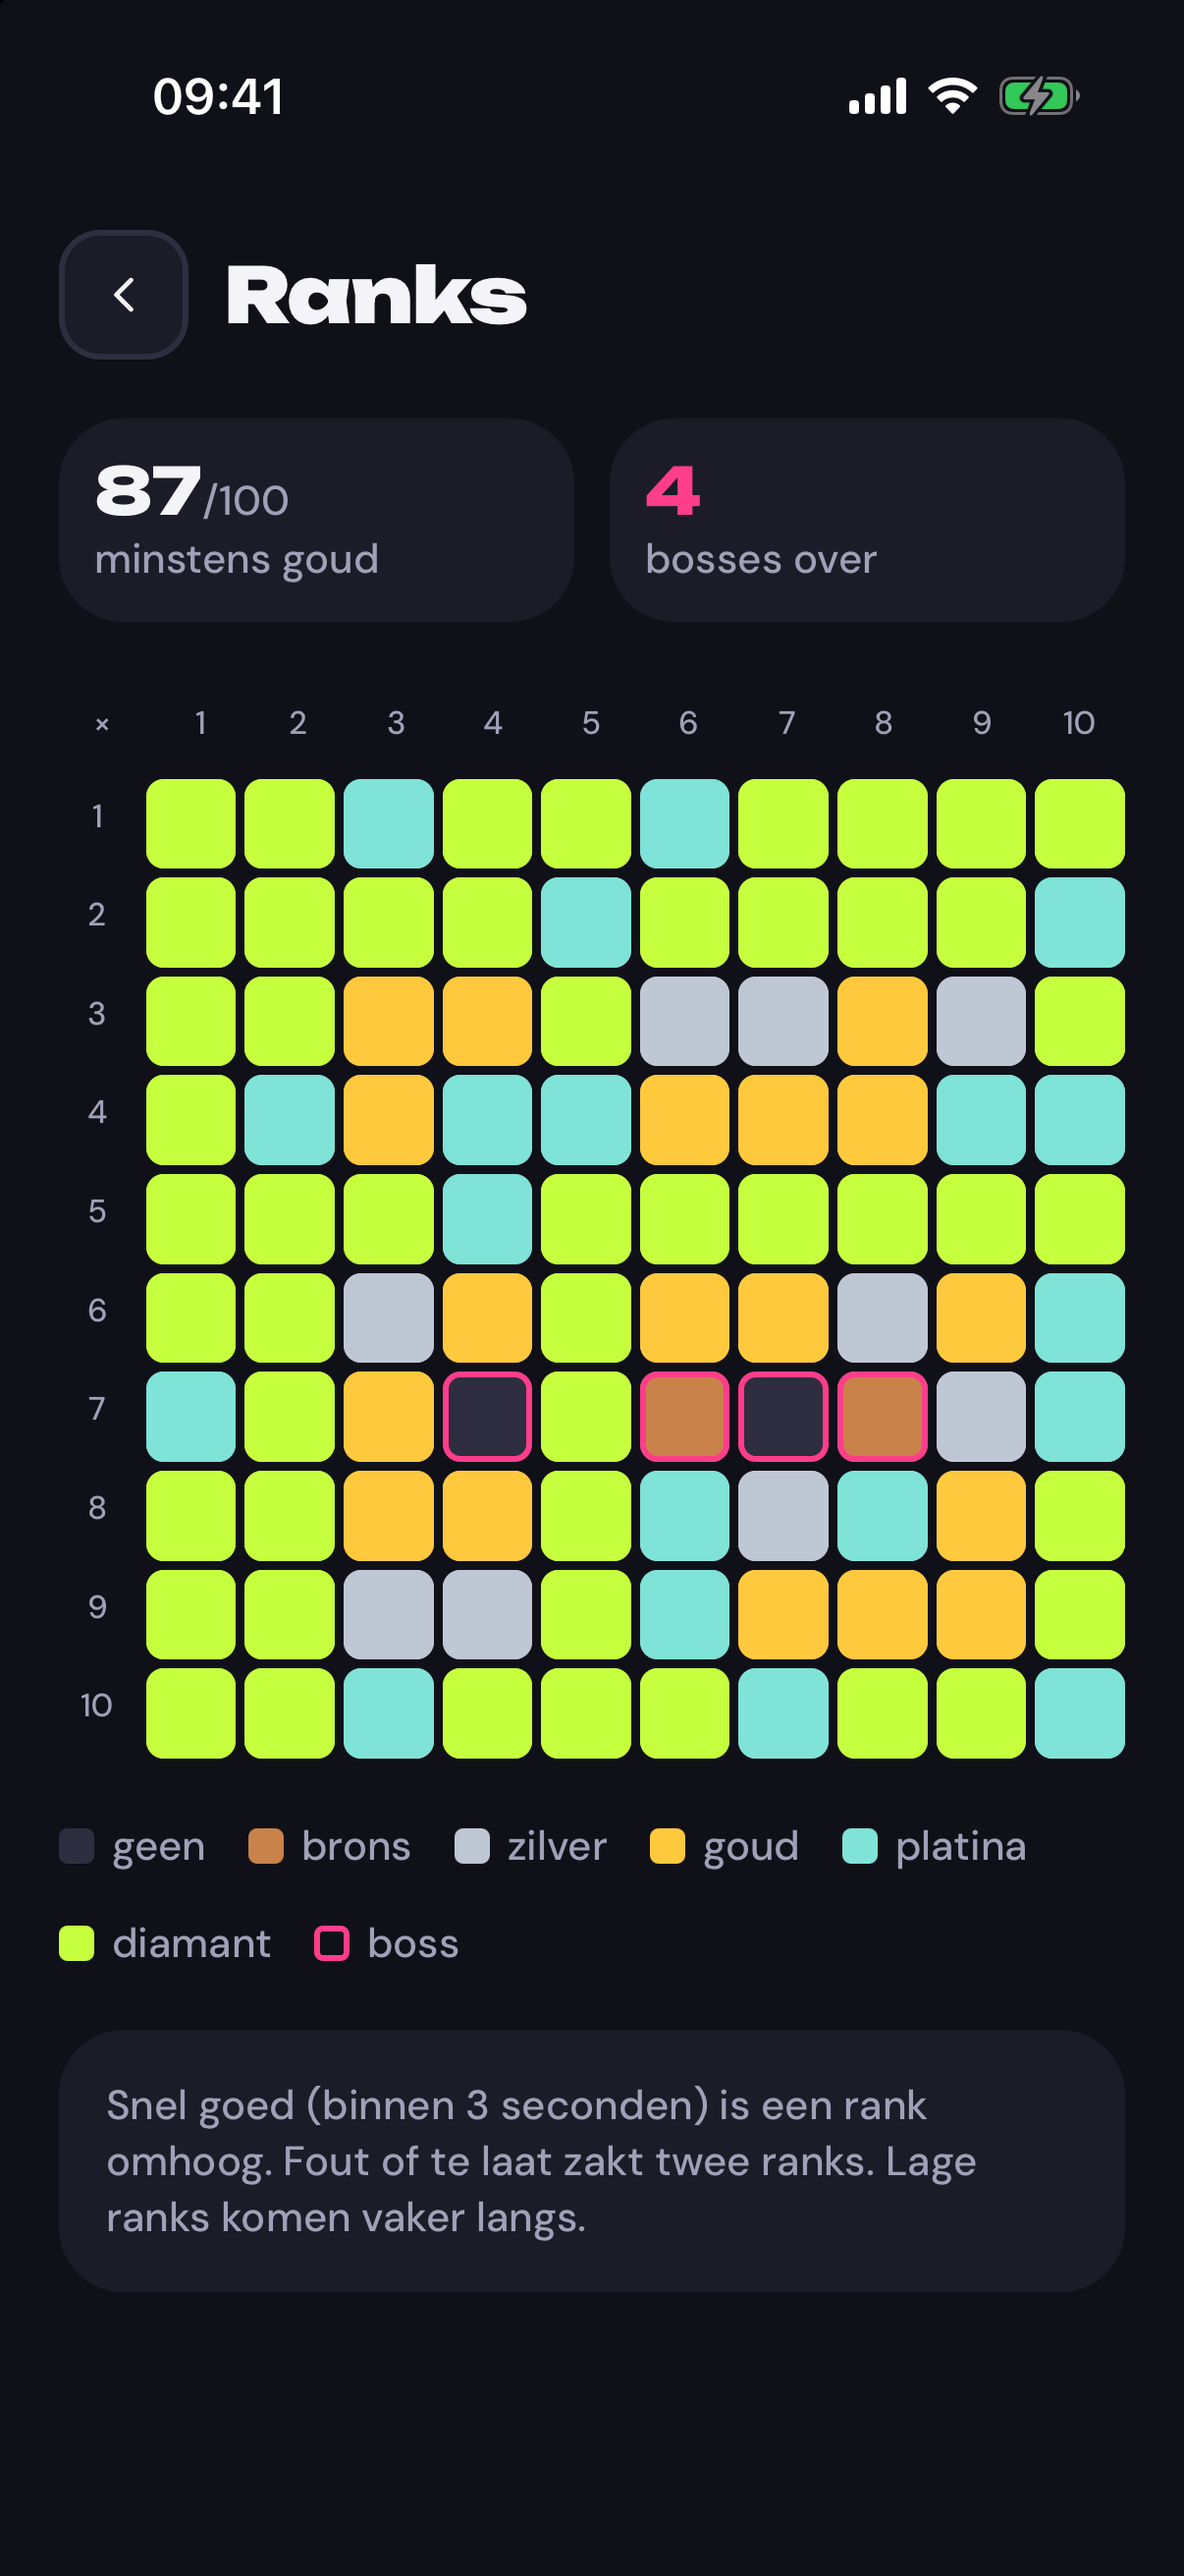
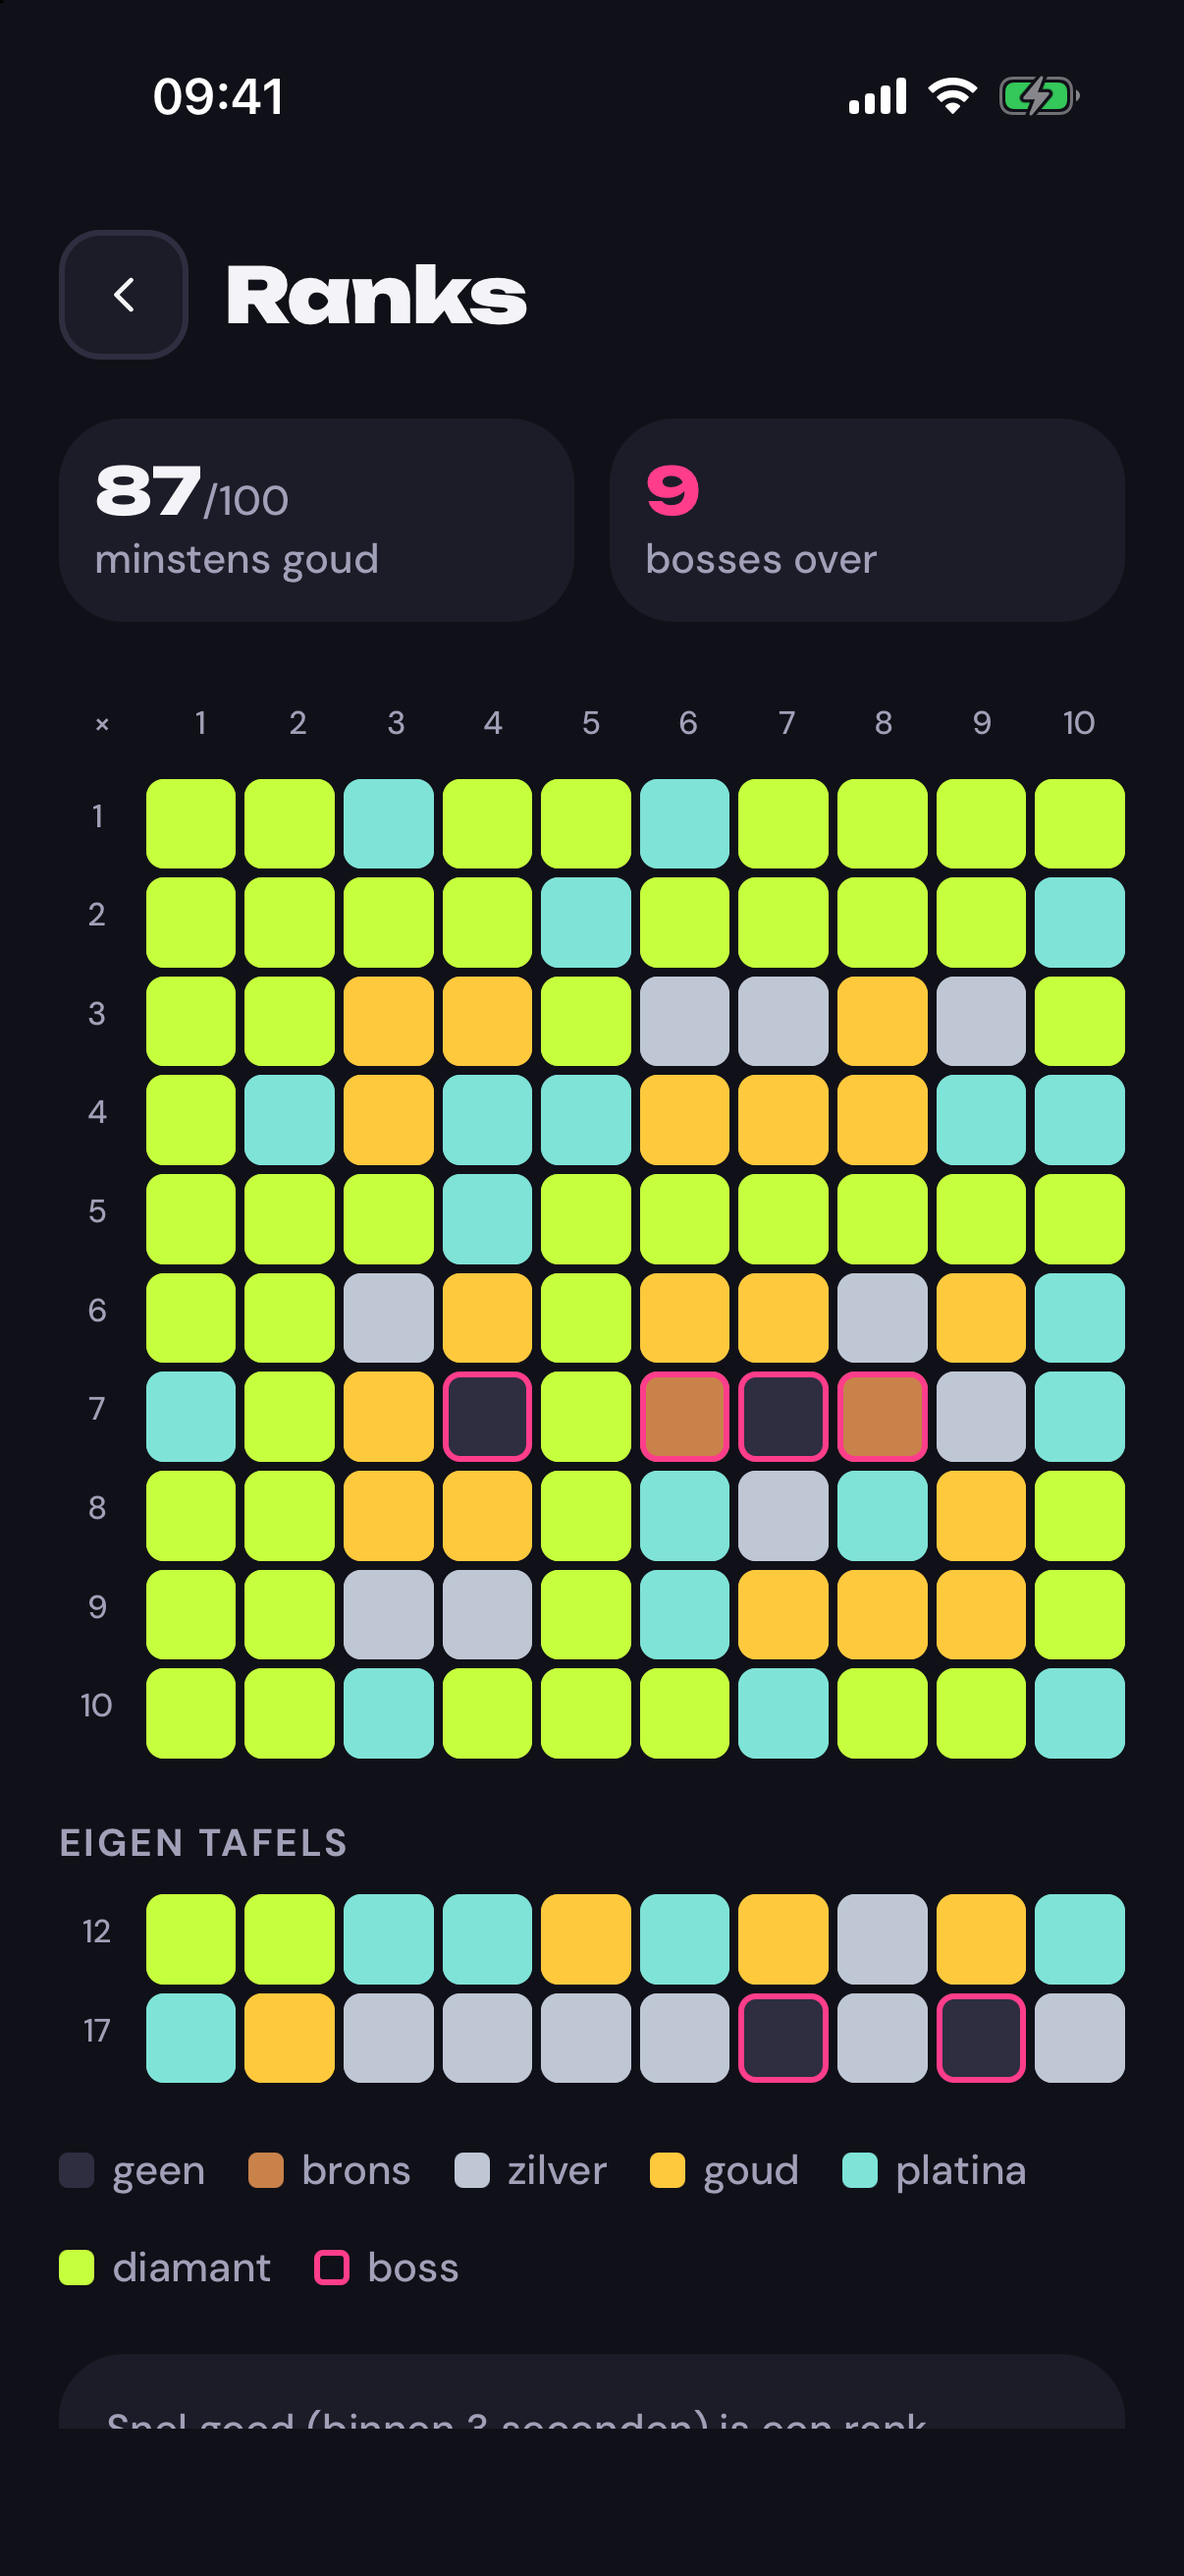
feat(web,store): show own tables up to 1000 in copy and screenshots
Start and ranks screenshots for both stores now include the eigen tafels 12 and 17. Landing copy says tafels 1 t/m 1000.

Changed region(s): [[0.0307, 0.7105, 0.9511, 0.8959], [0.5522, 0.1854, 0.5829, 0.2162]]

diff --git a/apps/web/src/app/page.tsx b/apps/web/src/app/page.tsx
@@ -59,7 +59,7 @@ const FLOATERS = [
 ]
 
 const SCREENS = [
-  ['1-start', 'Kies je tafels'],
+  ['1-start', 'Kies je tafels, tot 1000'],
   ['2-luisteren', 'De app luistert'],
   ['3-goed', 'Goed: XP en combo'],
   ['4-fout', 'Fout: wat de helly.'],
@@ -155,7 +155,7 @@ function Hero() {
           <ul className="hero-in flex flex-wrap gap-x-5 gap-y-1 text-sm font-bold text-muted" style={{ '--d': '1200ms' } as Vars}>
             <li>Geen account</li>
             <li>Geen reclame</li>
-            <li>Tafels 1 t/m 10</li>
+            <li>Tafels 1 t/m 1000</li>
           </ul>
         </div>
 
@@ -363,7 +363,7 @@ function Ranks() {
         <SectionHead
           kicker="Slim oefenen"
           title="Elke som een rank"
-          text="Van 1×1 tot 10×10 heeft elke som een eigen rank. Snel goed is een rank omhoog. Fout of te laat zakt twee ranks. Gaat de tafel van 7 steeds mis? De app clockt het."
+          text="Van 1×1 tot 10×10 heeft elke som een eigen rank, en eigen tafels zoals die van 17 of 125 krijgen ook een rij. Snel goed is een rank omhoog. Fout of te laat zakt twee ranks. Gaat de tafel van 7 steeds mis? De app clockt het."
         />
         <div data-reveal className="flex flex-wrap gap-2" style={{ '--d': '120ms' } as Vars}>
           {(['B', 'Z', 'G', 'P', 'D'] as const).map((k) => (
